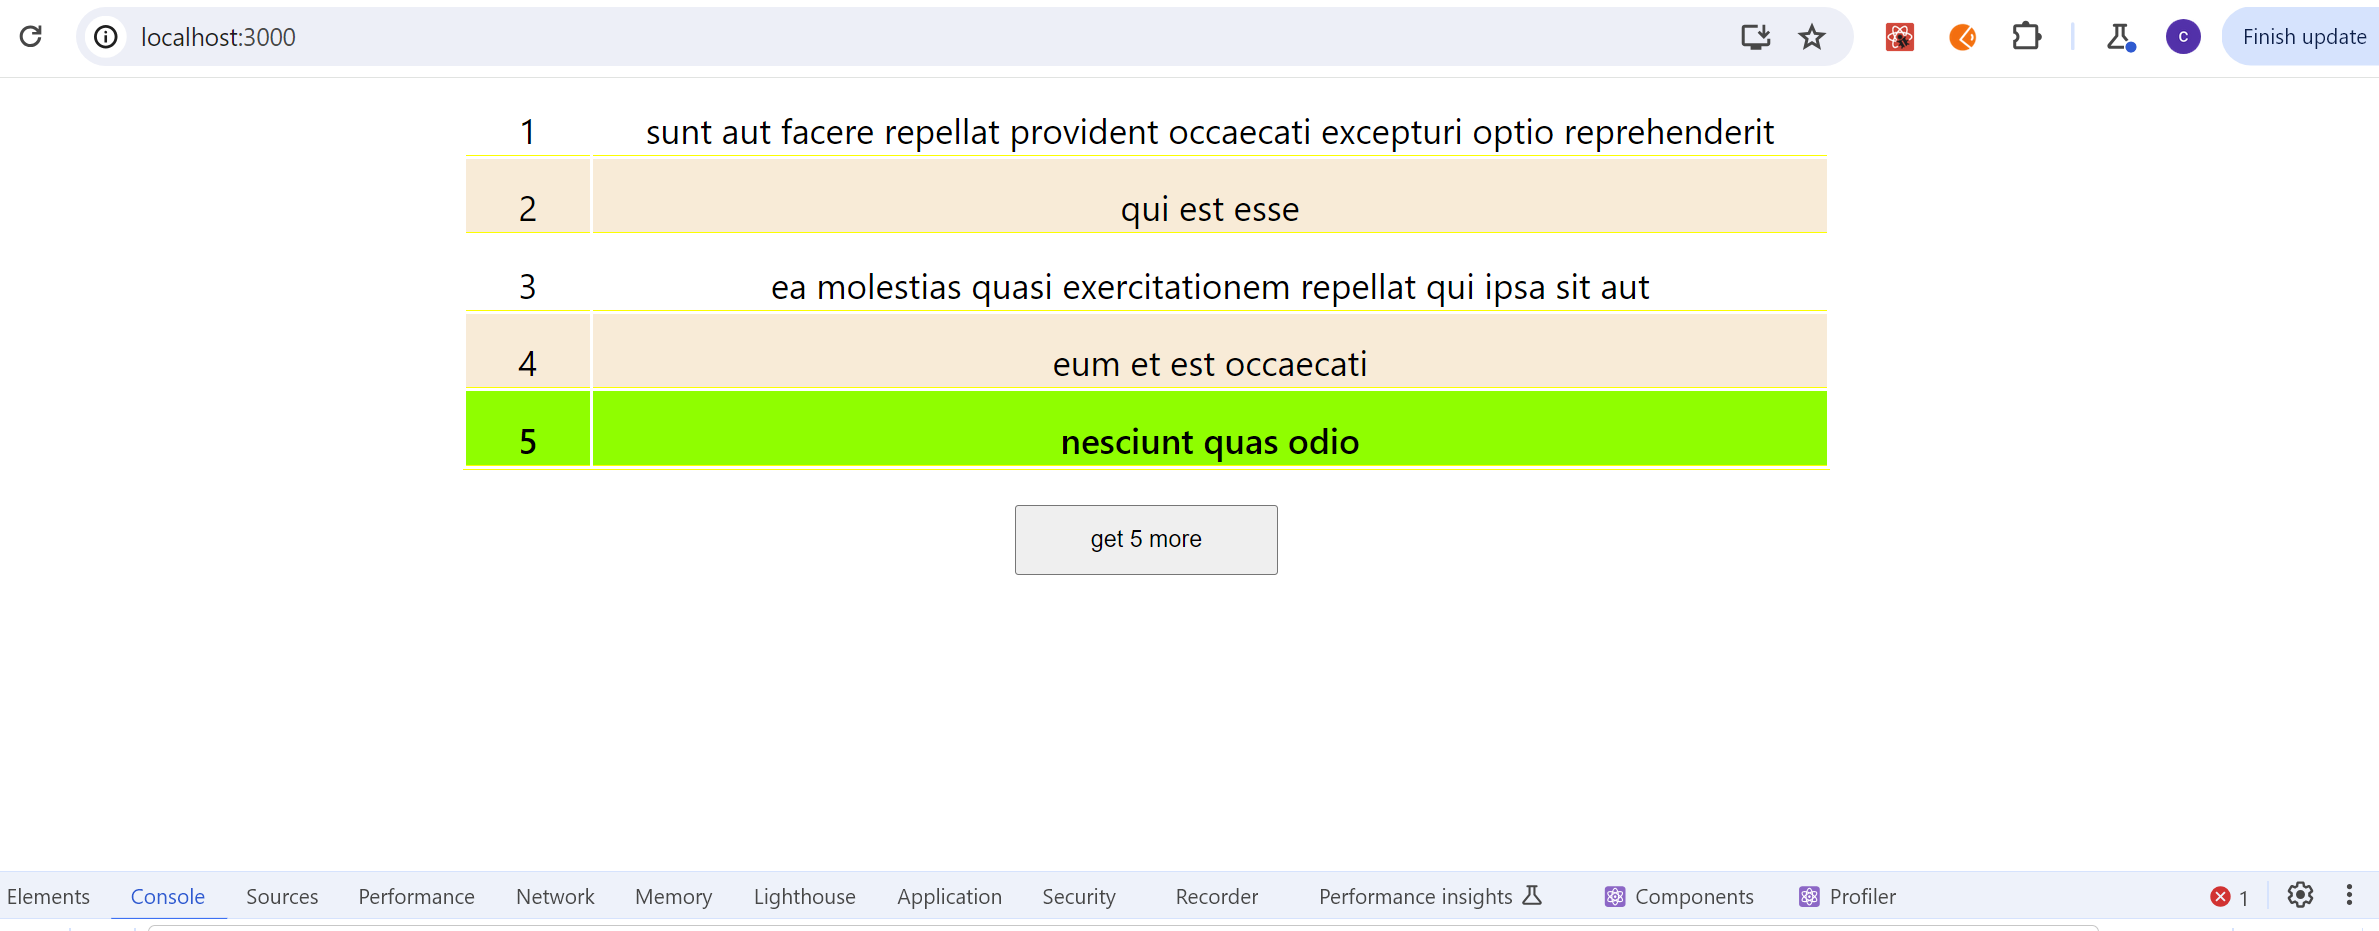
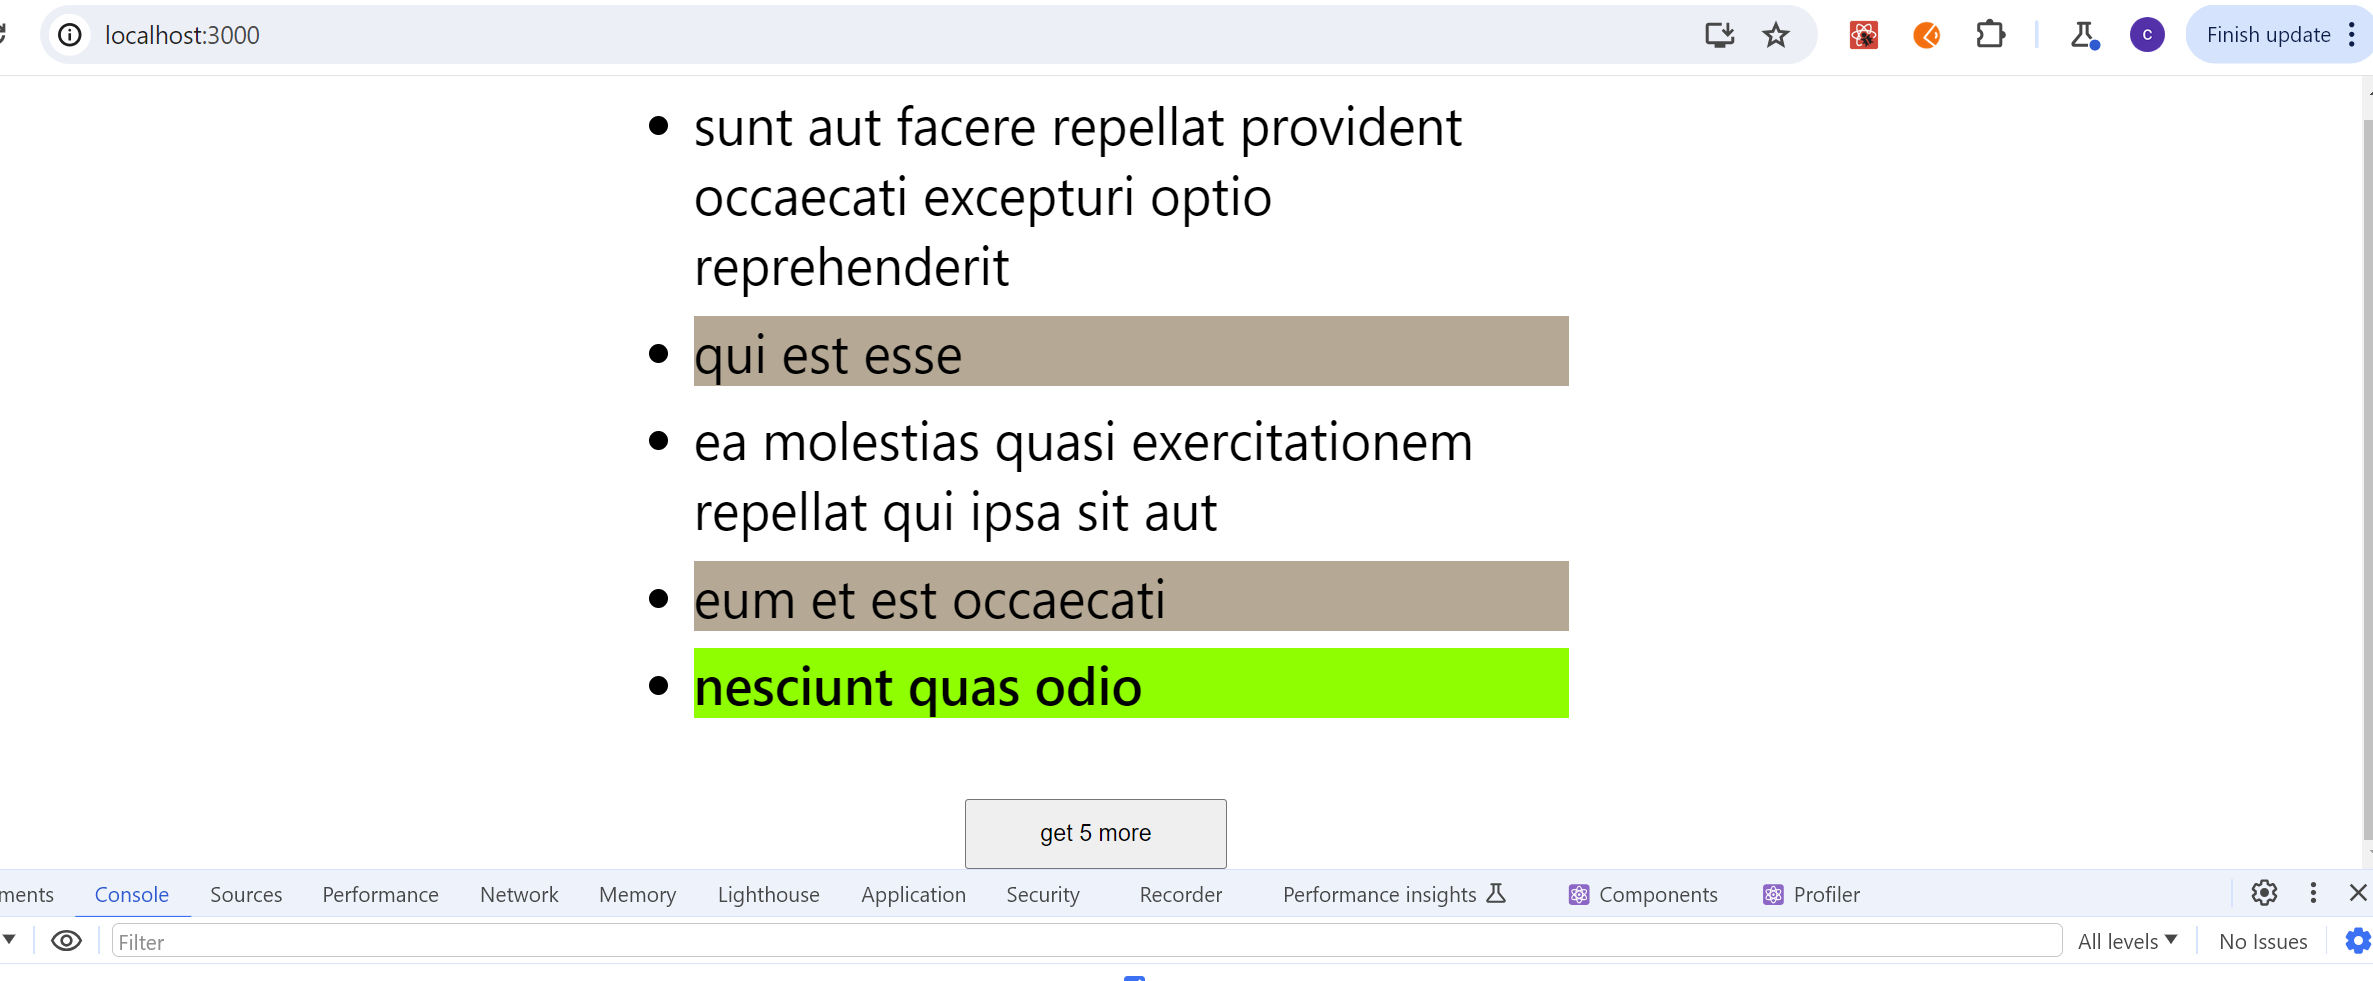
css

diff --git a/src/components/List/index.jsx b/src/components/List/index.jsx
@@ -25,31 +25,11 @@ export default function List() {
   return (
     <div className='dataList'>
       
-      <table className='blogTable'>
+
            
-           {posts.dataShow.map(
 
-               post => {
-                
-                   return (
-                       <tr key={post.id}>
-                       <td >
-                           {post.id}                  
-                       </td>
-                       <td >
-                           {post.title}                  
-                       </td>
-
-                       </tr>
-                       
-
-                   )
-                  
-               }                  
-           )}
-       </table>
       
-       {/* <ul>
+       <ul>
            
             {posts.dataShow.map(
 
@@ -63,7 +43,7 @@ export default function List() {
                    
                 }                  
             )}
-        </ul> */}
+        </ul>
        
         <button onClick={getMoreData}>get 5 more</button>
     </div>

diff --git a/src/components/List/index.css b/src/components/List/index.css
@@ -8,27 +8,18 @@
     margin: auto;
 }
 
-table,
-td {
-    border-bottom: 1px solid yellow;
-    font-size: 20px;
-}
-
-td {
-    text-align: center;
-    vertical-align: bottom;
-    height: 40px;
-    padding-left: 30px;
-    padding-right: 30px;
+li {
+    margin-bottom: 10px;
+    font-size: 30px;
+    width: 500px;
 }
 
 
-
-tr:nth-child(even) {
-    background-color: antiquewhite;
+li:nth-child(even) {
+    background-color: rgb(183, 168, 149);
 }
 
-tr:hover {
+li:hover {
     background-color: chartreuse;
     font-weight: 600;
     font-size: 30px;
